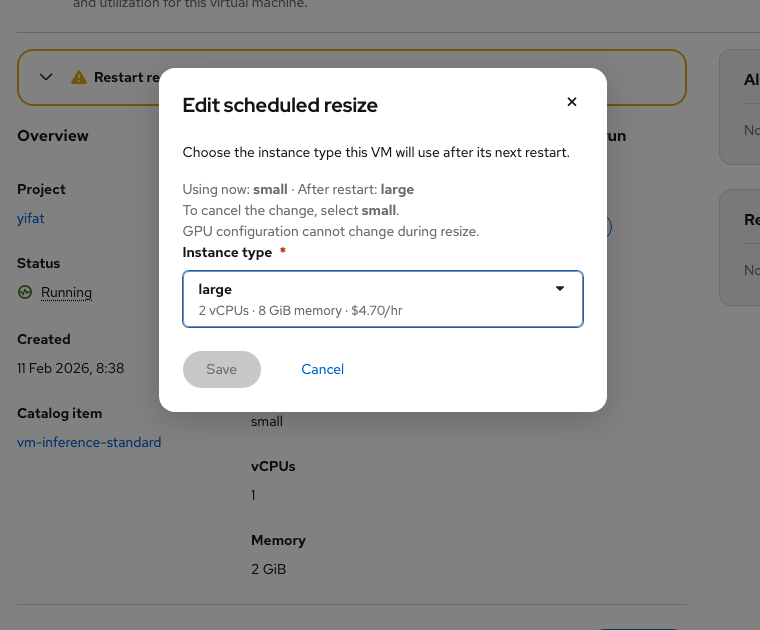
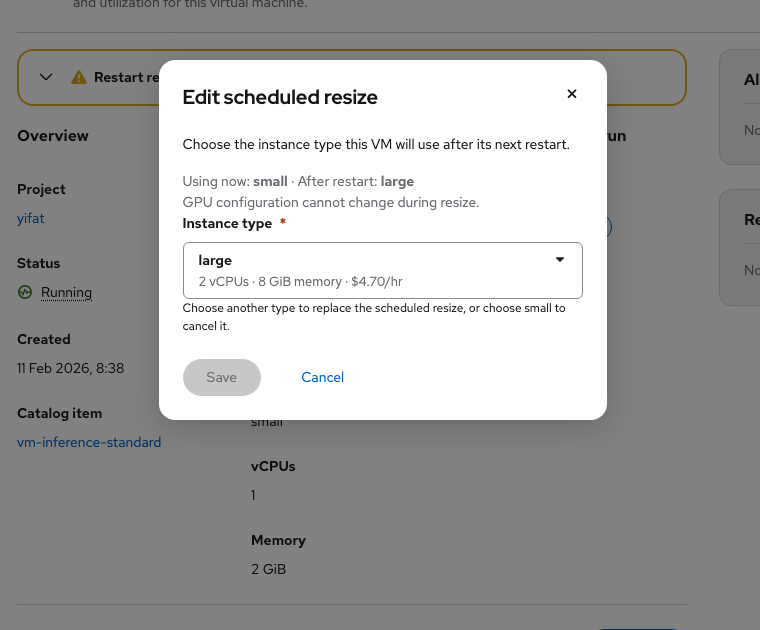
OSAC-7158: keep Save for scheduled resize changes
Assisted-by: Cursor <cursoragent@cursor.com>

diff --git a/apps/app-frontend/public/vmaas-ux-prototype.html b/apps/app-frontend/public/vmaas-ux-prototype.html
@@ -9664,14 +9664,13 @@
       if (titleEl) titleEl.textContent = m.pendingResize ? 'Edit scheduled resize' : 'Edit instance type';
       const saveBtn = document.getElementById('compute-modal-save');
       if (saveBtn) {
-        saveBtn.textContent = m.pendingResize && m.selectedId === m.activeId
-          ? 'Cancel scheduled resize' : 'Save';
+        saveBtn.textContent = 'Save';
         saveBtn.disabled = m.selectedId === m.initialId;
       }
         body.innerHTML = `
           ${submitErrorAlert}
           ${resizeAlert}
-          ${m.pendingResize ? `<p class="muted">Using now: <strong>${richSelectEsc(m.activeId)}</strong> · After restart: <strong>${richSelectEsc(m.initialId)}</strong><br>To cancel the change, select <strong>${richSelectEsc(m.activeId)}</strong>.</p>` : ''}
+          ${m.pendingResize ? `<p class="muted">Using now: <strong>${richSelectEsc(m.activeId)}</strong> · After restart: <strong>${richSelectEsc(m.initialId)}</strong></p>` : ''}
           <p class="muted">${requireGpu ? `GPU configuration: ${richSelectEsc(vmResizeGpuSummary(m.initialId))}. ` : ''}GPU configuration cannot change during resize.</p>
           <div class="form-field">
           <label id="f-edit-compute-resource-label">Instance type <span class="req">*</span></label>
@@ -9716,6 +9715,7 @@
             </div>
             <input type="hidden" id="f-edit-compute-resource" value="${richSelectEsc(m.selectedId)}" />
           </div>
+          ${m.pendingResize ? `<div class="pf-v6-c-form__helper-text muted"><div class="pf-v6-c-helper-text"><div class="pf-v6-c-helper-text__item"><span class="pf-v6-c-helper-text__item-text">Choose another type to replace the scheduled resize, or choose ${richSelectEsc(m.activeId)} to cancel it.</span></div></div></div>` : ''}
           ${COMPUTE_RESOURCES.find(c => c.id === m.initialId)?.lifecycle === 'Obsolete'
             ? '<p class="muted">The current instance type is obsolete. Select a different type to resize.</p>' : ''}
           </div>

diff --git a/docs/osac-4281-vm-resize-handoff.md b/docs/osac-4281-vm-resize-handoff.md
@@ -27,7 +27,7 @@ Show Deprecated instance types as selectable options with a **Deprecated** label
 
 A success toast confirms the saved request. For a Running or Paused VM that requires restart, show a **Restart required** warning at the top of VM Overview in version 0.5. It is collapsed by default; expanding it explains that the VM must restart and shows the current → requested instance type, vCPUs, and memory. Do not repeat the restart message beside Instance type. Keep the VM's **active** instance type, vCPUs, and memory as the main configuration values, including the CPU and memory totals in Utilization. The 0.4 screenshots below retain the earlier layout for historical comparison.
 
-While a saved resize awaits restart, keep the pencil available. **Edit scheduled resize** shows the active and scheduled instance types. Selecting another type replaces the scheduled target; selecting the active type offers **Cancel scheduled resize**. Update the warning to show only the latest changed values. This interaction depends on backend support for replacing or canceling a pending resize; confirm that contract before implementation.
+While a saved resize awaits restart, keep the pencil available. **Edit scheduled resize** shows the active and scheduled instance types. A neutral helper below the selector explains that choosing another type replaces the scheduled target and choosing the active type cancels it. **Save** applies either choice; **Cancel** closes the dialog without changes. Update the warning to show only the latest changed values. This interaction depends on backend support for replacing or canceling a pending resize; confirm that contract before implementation.
 
 On the VM list, retain the normal power status (for example, Running). In 0.5, show one subdued gray, text-only **Changes pending** status on a second line in the Status column while restart is required; its tooltip names the resize target and explains that a restart is needed. Cards use the same placement below the power status. A Stopped VM's new size applies on its next start. The 0.4 screenshots below show the earlier **Resize scheduled** label beside the name.
 

diff --git a/docs/vm-overview-ux-handoff.md b/docs/vm-overview-ux-handoff.md
@@ -49,7 +49,7 @@ When a resize requires a restart, show a **Restart required** warning above Over
 
 ![Version 0.5 expanded top restart warning](screenshots/latest-ux/vm-config-restart-expanded-0.5-crop.png)
 
-The Instance type pencil stays available while a saved resize awaits restart. **Edit scheduled resize** identifies the active and scheduled types. Users can replace the target, or select the active type to cancel the scheduled resize. The warning updates to the latest target and omits unchanged values. Backend support for replacing or canceling a pending resize must be confirmed.
+The Instance type pencil stays available while a saved resize awaits restart. **Edit scheduled resize** identifies the active and scheduled types. A neutral helper below the selector explains that choosing another type replaces the scheduled target, or choosing the active type cancels it. **Save** applies either choice; **Cancel** closes without changes. The warning updates to the latest target and omits unchanged values. Backend support for replacing or canceling a pending resize must be confirmed.
 
 ![Version 0.5 edit scheduled resize dialog](screenshots/latest-ux/vm-edit-scheduled-resize-0.5.png)
 
